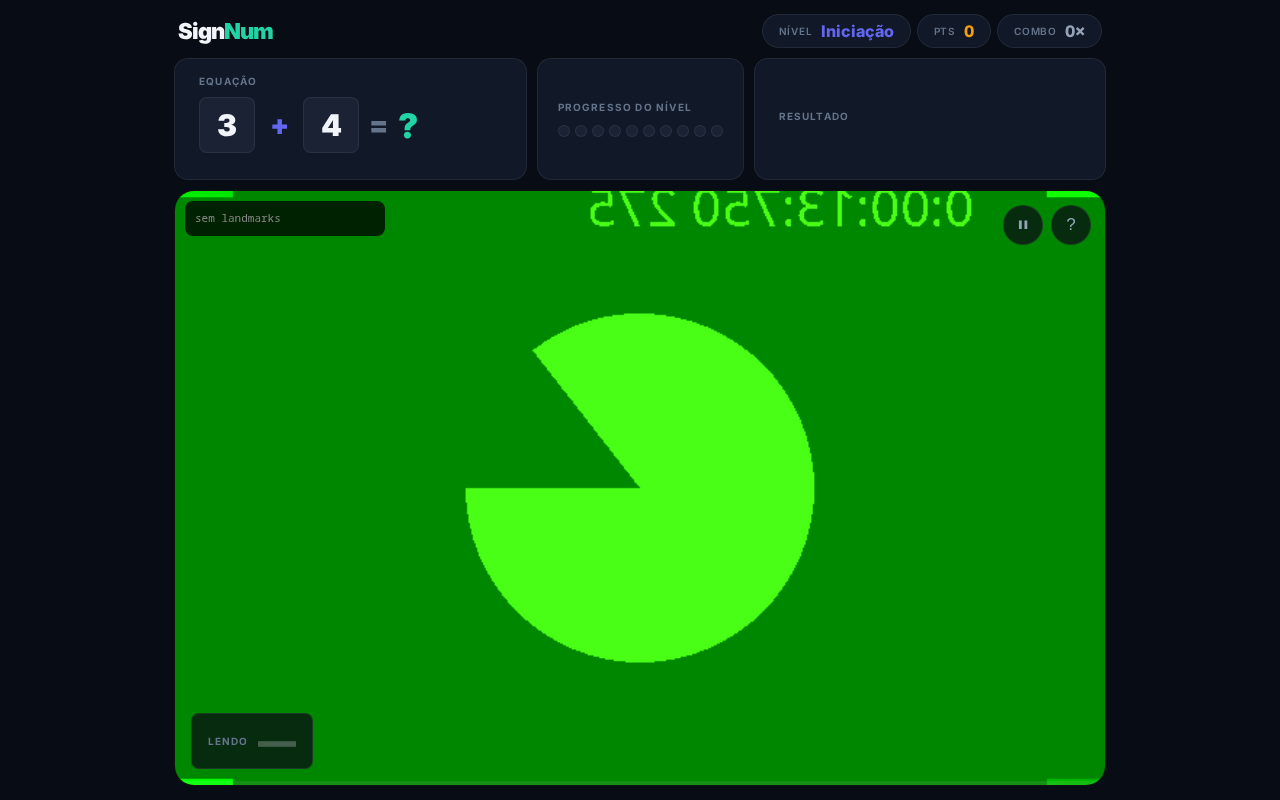
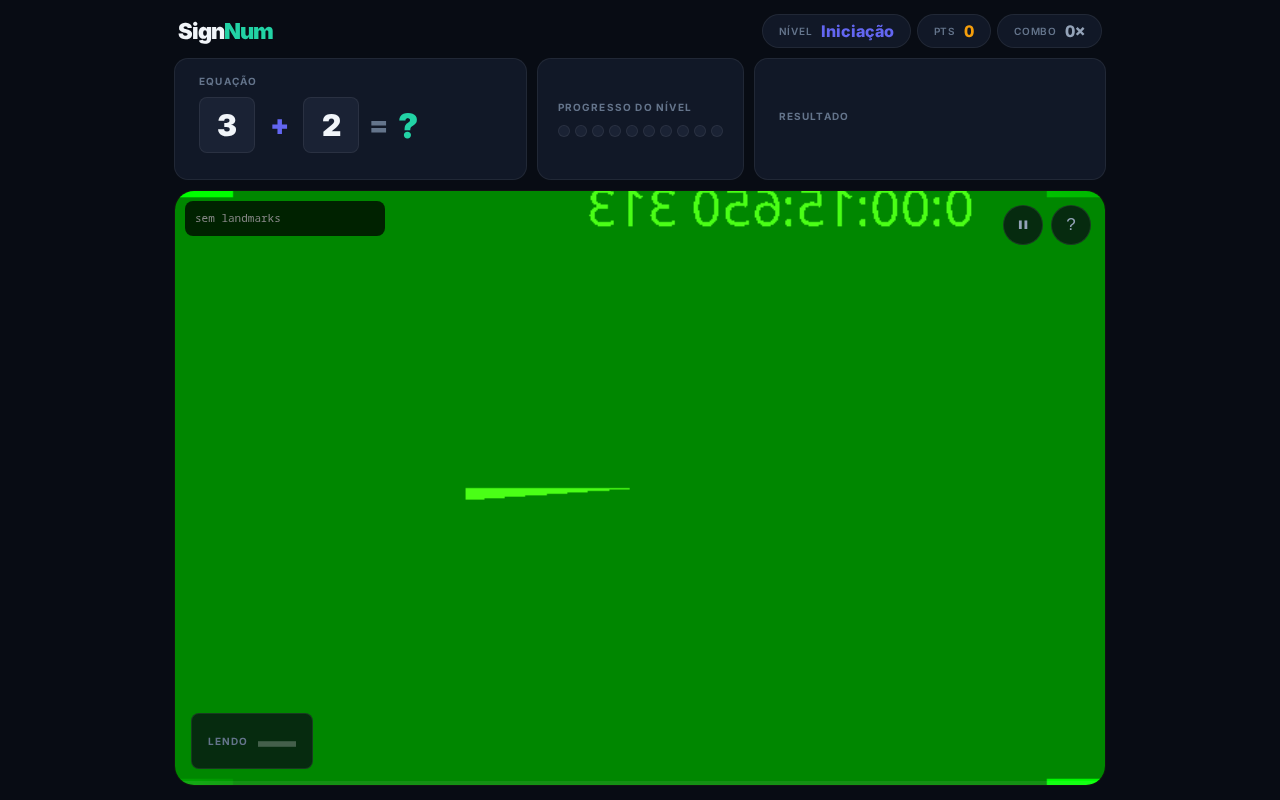
Improve proportions of gesture help modal and use 5-column grid with larger image sizes

diff --git a/index.html b/index.html
@@ -554,7 +554,7 @@
       border-radius: var(--r-lg);
       padding: 28px;
       width: 90%;
-      max-width: 560px;
+      max-width: 680px;
       position: relative;
     }
 
@@ -587,26 +587,33 @@
 
     .gesture-grid {
       display: grid;
-      grid-template-columns: 1fr 1fr 1fr;
-      gap: 8px;
+      grid-template-columns: repeat(5, 1fr);
+      gap: 10px;
     }
 
     .gesture-item {
       background: var(--surface2);
       border: 1px solid var(--border);
-      border-radius: var(--r-sm);
-      padding: 10px 12px;
+      border-radius: var(--r-md);
+      padding: 12px 8px;
       display: flex;
+      flex-direction: column;
       align-items: center;
       gap: 10px;
+      position: relative;
     }
 
     .gesture-item .g-num {
-      font-size: 20px;
+      font-size: 16px;
       font-weight: 900;
       color: var(--primary);
-      width: 24px;
-      text-align: center;
+      background: rgba(34, 211, 165, 0.1);
+      border-radius: 50%;
+      width: 28px;
+      height: 28px;
+      display: flex;
+      align-items: center;
+      justify-content: center;
       flex-shrink: 0;
     }
 
@@ -617,12 +624,15 @@
     }
 
     .gesture-item .g-img {
-      height: 42px;
-      width: 42px;
+      height: 80px;
+      width: 100%;
       object-fit: contain;
       border-radius: 4px;
-      background: rgba(255, 255, 255, 0.08);
-      padding: 2px;
+      transition: transform 0.2s;
+    }
+
+    .gesture-item:hover .g-img {
+      transform: scale(1.1);
     }
 
     /* ─── Start Overlay ─────────────────────────────────── */
@@ -733,7 +743,7 @@
       .progress-card { display: none; }
       .start-steps { gap: 12px; }
       .step { width: 76px; }
-      .gesture-grid { grid-template-columns: 1fr 1fr; }
+      .gesture-grid { grid-template-columns: repeat(3, 1fr); }
     }
   </style>
 </head>